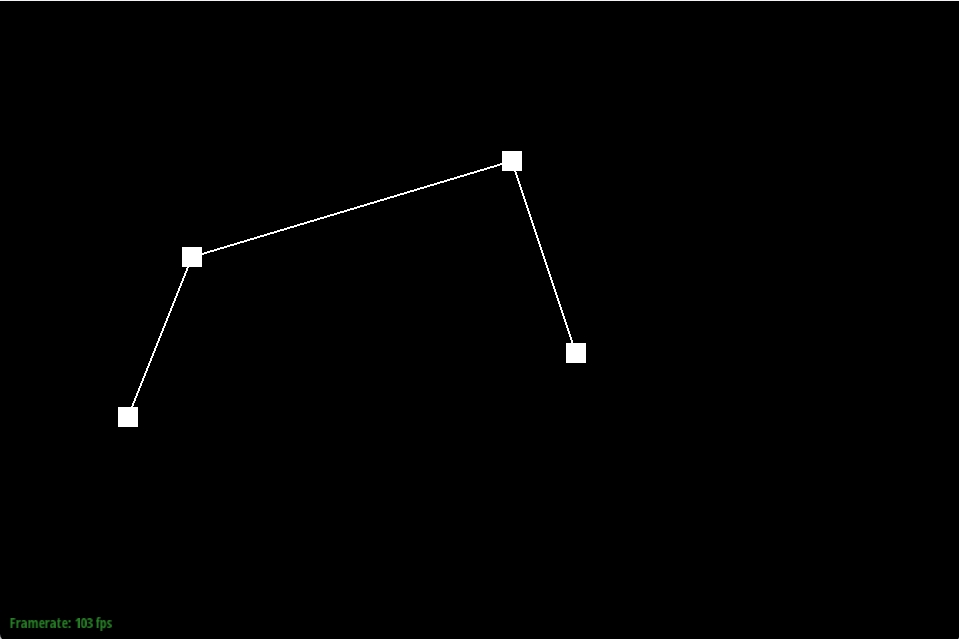
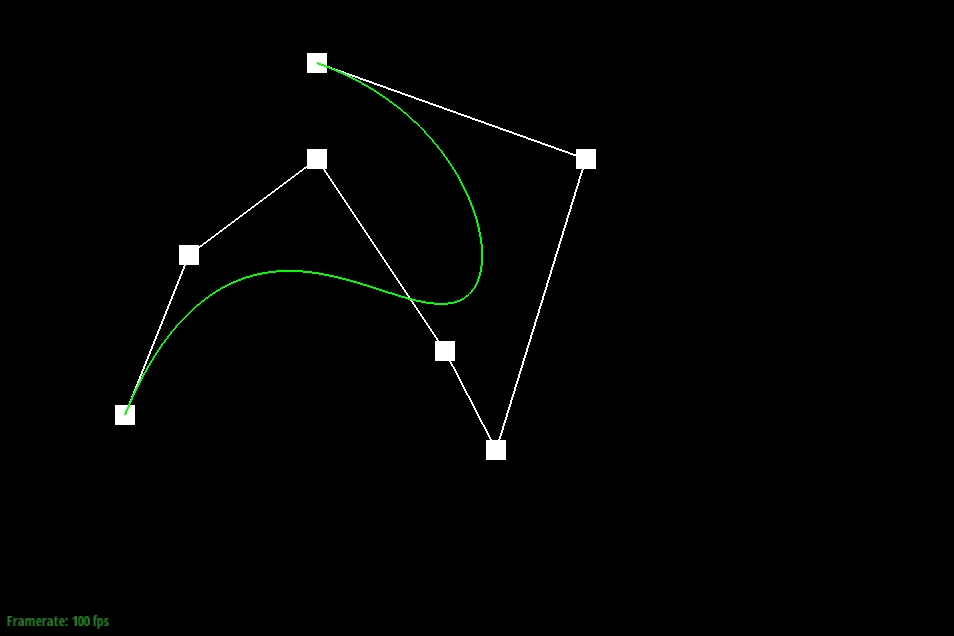
finished part1

diff --git a/hw2/index.html b/hw2/index.html
@@ -57,30 +57,60 @@
 $$
 p'_i = \text{lerp}(p_i, p_{i+1}, t) = (1 - t)p_i + t p_{i+1}
 $$
-</p>Given a list of n control points,p_1, p_2, ... p_n and the parameter t. This is also how it is implemented in my code. It started with the original control points, and then iteratively perform linear interpolation and push back the new points created. The algorihtm ends when the vector only has one point, which is the point on the Bezier curve at parameter t.
+</p>Given a list of n control points,p<sub>1</sub>, p<sub>2</sub>, ... p<sub>n</sub> and the parameter t. This is also how it is implemented in my code. It started with the original control points, and then iteratively perform linear interpolation and push back the new points created. The algorihtm ends when the vector only has one point, which is the point on the Bezier curve at parameter t.
 </p>
 
-		<p>Here is an example 2x2 gridlike structure using an HTML table. Each <b>tr</b> is a row and each <b>td</b> is a column in that row. You might find this useful for framing and showing your result images in an organized fashion.</p>
+		<p>I will demonstrate the result with a customized 6-degree bezier curve and show how it works differently with a different parameter t and moved control points.</p>
 		<div style="display: flex; flex-direction: column; align-items: center;">
 			<table style="width: 100%; text-align: center; border-collapse: collapse;">
 			  <tr>
 				<td style="text-align: center;">
-				  <img src="teapot.png" width="400px"/>
-				  <figcaption>Caption goes here.</figcaption>
+				  <img src="bzr1.png" width="400px"/>
+				  <figcaption>Bezier Curve</figcaption>
 				</td>
 				<td style="text-align: center;">
-				  <img src="teapot.png" width="400px"/>
-				  <figcaption>Caption goes here.</figcaption>
+				  <img src="bzr2.png" width="400px"/>
+				  <figcaption>Bezier Curve One Step</figcaption>
 				</td>
 			  </tr>
 			  <tr>
 				<td style="text-align: center;">
-				  <img src="teapot.png" width="400px"/>
-				  <figcaption>Caption goes here.</figcaption>
+				  <img src="bzr3.png" width="400px"/>
+				  <figcaption>Bezier Curve Two Step</figcaption>
 				</td>
 				<td style="text-align: center;">
-				  <img src="teapot.png" width="400px"/>
-				  <figcaption>Caption goes here.</figcaption>
+				  <img src="bzr4.png" width="400px"/>
+				  <figcaption>Bezier Curve Three Step</figcaption>
+				</td>
+			  </tr>
+			  			  <tr>
+				<td style="text-align: center;">
+				  <img src="bzr5.png" width="400px"/>
+				  <figcaption>Bezier Curve Four Step</figcaption>
+				</td>
+				<td style="text-align: center;">
+				  <img src="bzr6.png" width="400px"/>
+				  <figcaption>Bezier Curve Five Step</figcaption>
+				</td>
+			  </tr>
+			  			  <tr>
+				<td style="text-align: center;">
+				  <img src="bzr7.png" width="400px"/>
+				  <figcaption>Bezier Curve Six Step</figcaption>
+				</td>
+				<td style="text-align: center;">
+				  <img src="bzr8.png" width="400px"/>
+				  <figcaption>Bezier Curve Final Step</figcaption>
+				</td>
+			  </tr>
+			  			  <tr>
+				<td style="text-align: center;">
+				  <img src="bzr_move.png" width="400px"/>
+				  <figcaption>Bezier Curve with Different t</figcaption>
+				</td>
+				<td style="text-align: center;">
+				  <img src="bzr_drag.png" width="400px"/>
+				  <figcaption>Bezier Curve with Moved Control points</figcaption>
 				</td>
 			  </tr>
 			</table>
